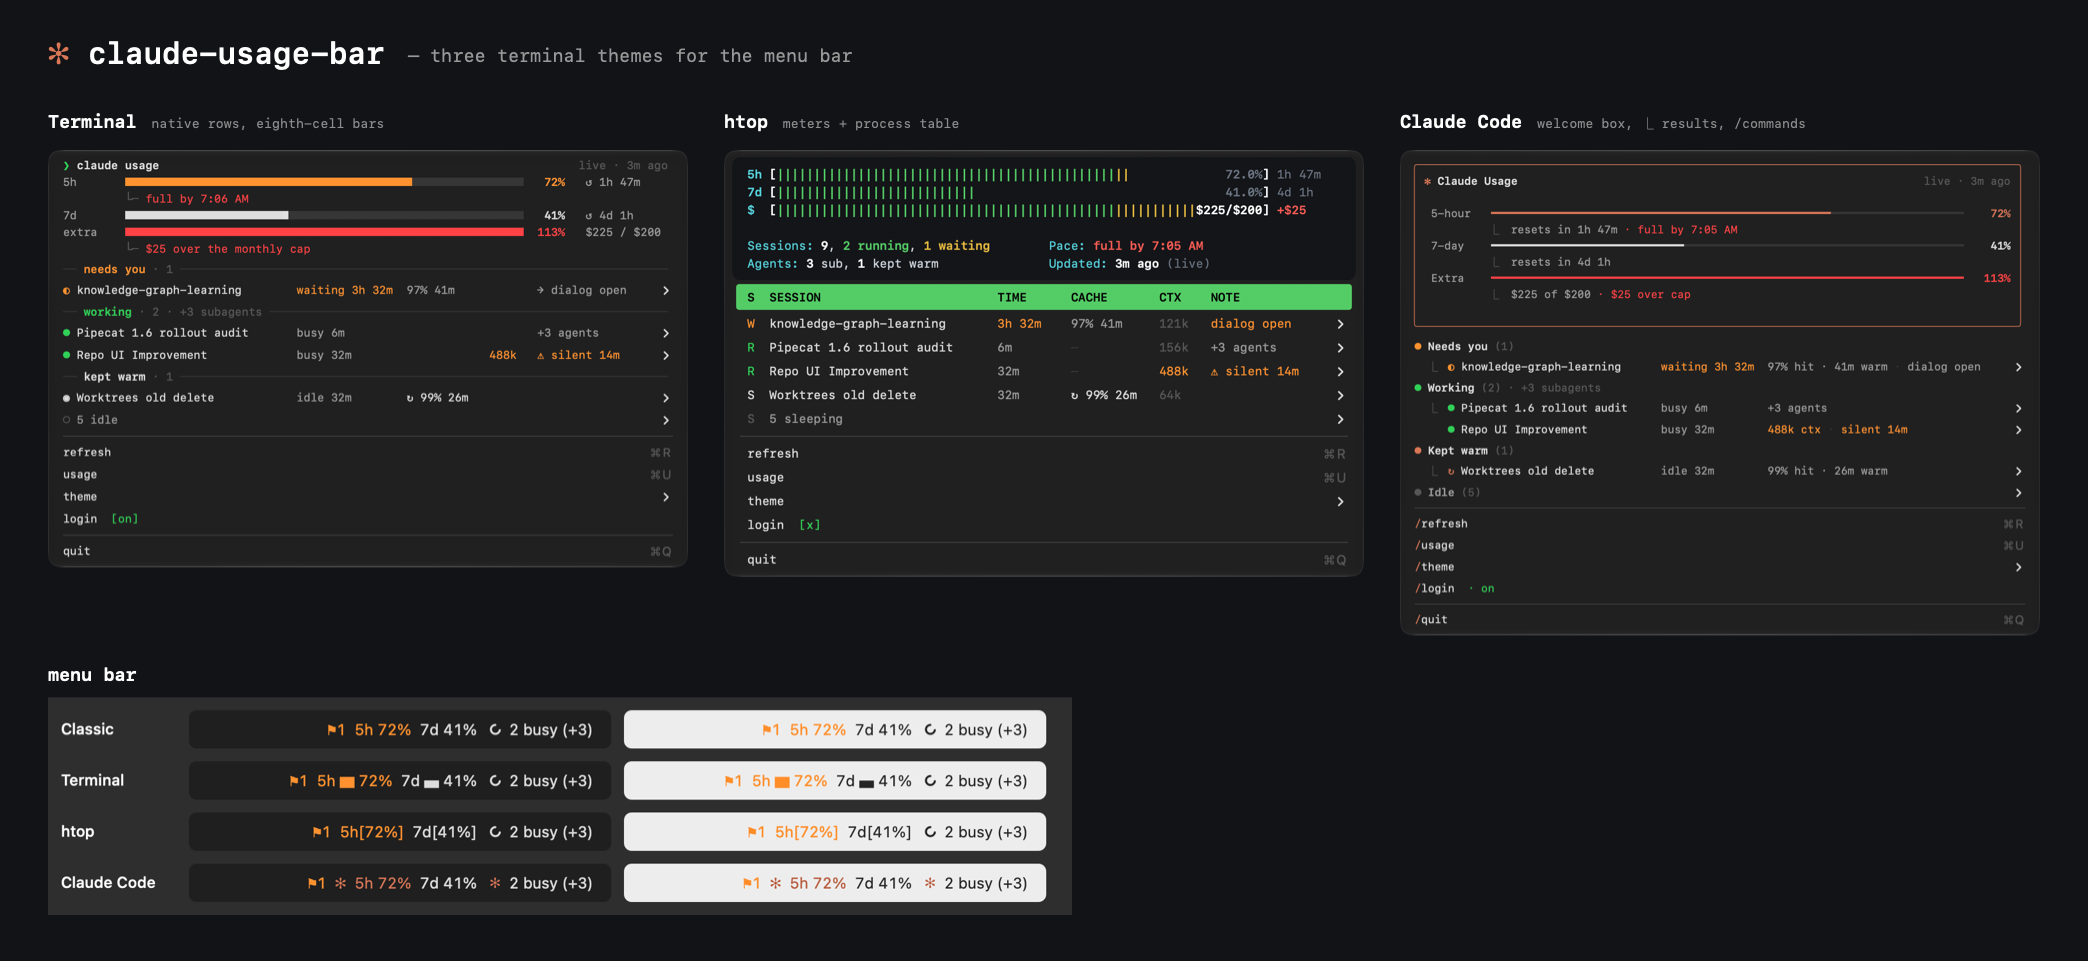
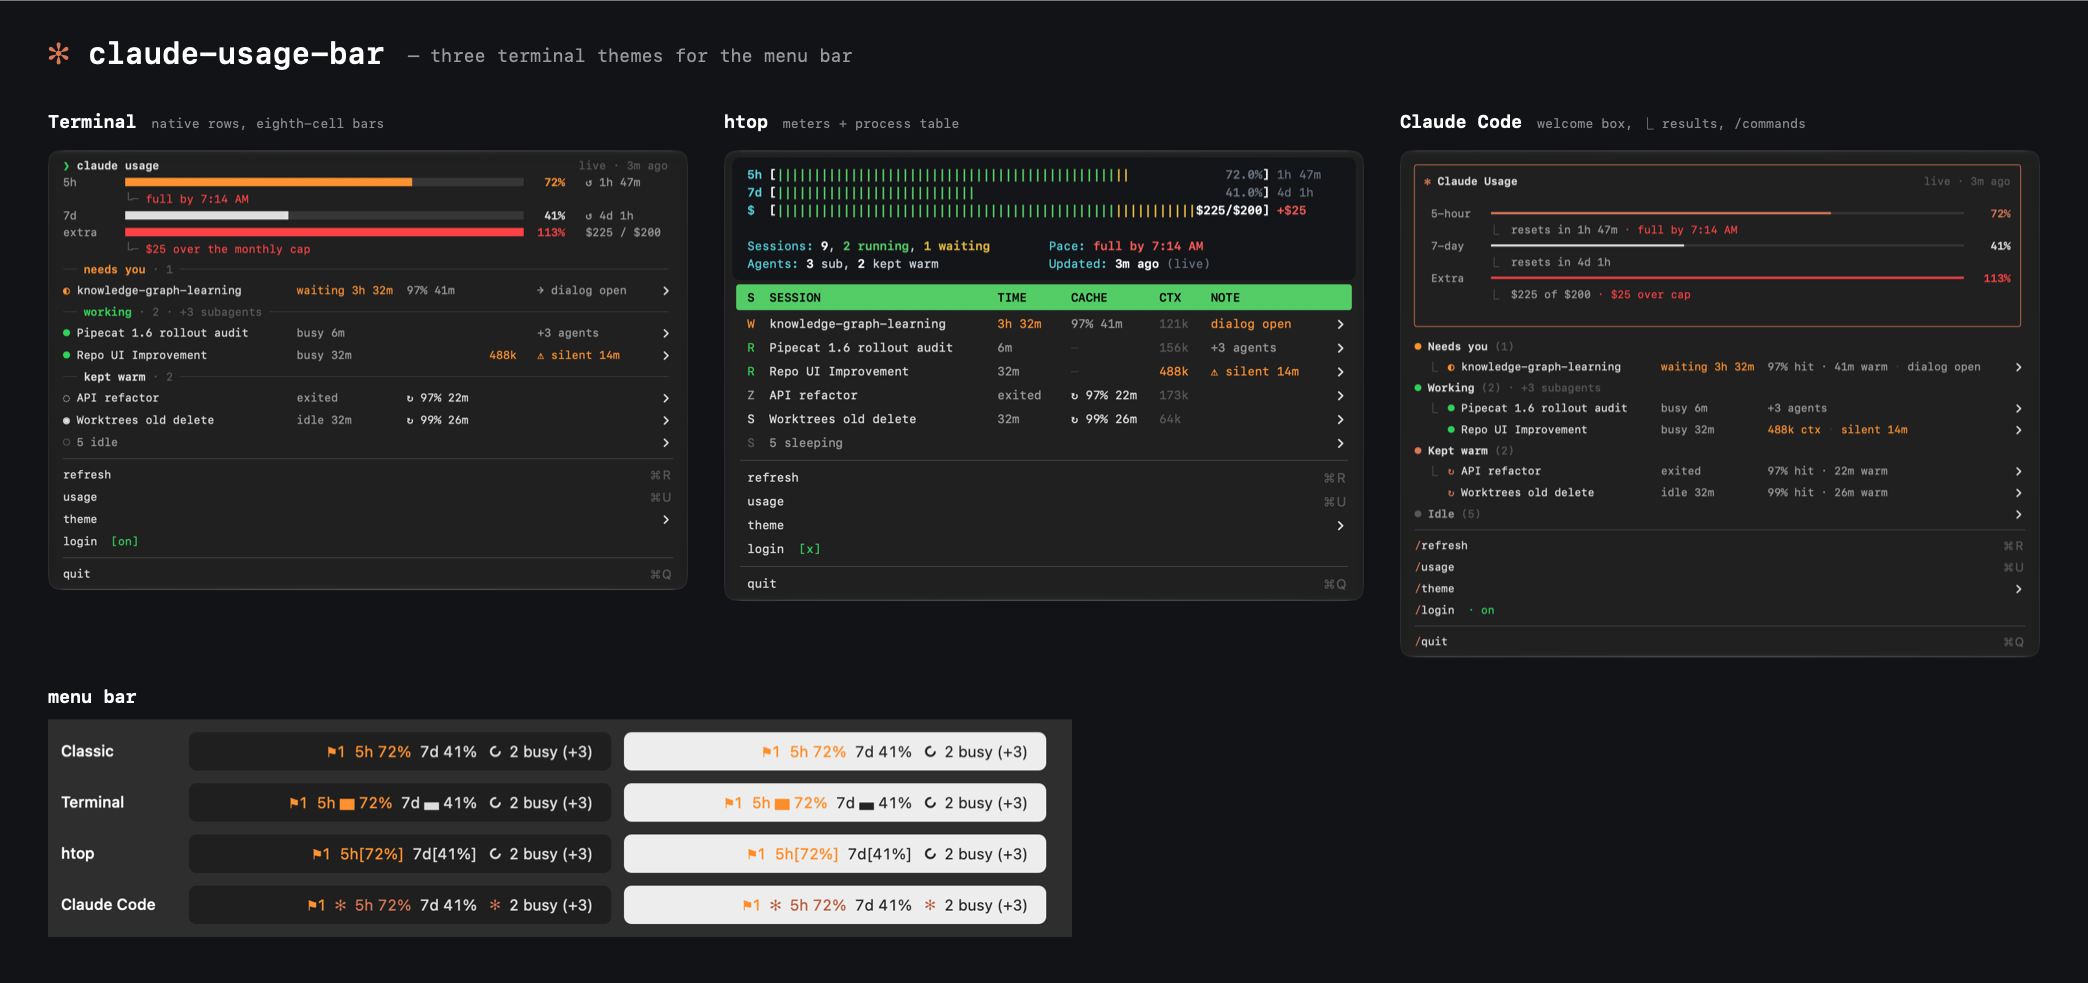
feat: show exited pinned sessions in the themes
Sessions Conductor has stopped now stay in the snapshot as "exited" while
their pin keeps the cache warm. htop marks them Z (gone, not yet reaped) and
counts only live processes under Sessions; Terminal gives them a dotted ◌.
The demo gains one, and the screenshots are regenerated.

Refs #8

diff --git a/Sources/Demo.swift b/Sources/Demo.swift
@@ -20,9 +20,14 @@ enum Demo {
     }
 
     static let warmId = "demo-warm"
+    static let exitedId = "demo-exited"
 
     static func pins(now: Date) -> [String: Pin] {
-        [warmId: Pin(sessionId: warmId, pinnedAt: now.addingTimeInterval(-2 * 3600), lastPingAt: nil)]
+        [
+            warmId: Pin(sessionId: warmId, pinnedAt: now.addingTimeInterval(-2 * 3600), lastPingAt: nil),
+            exitedId: Pin(sessionId: exitedId, pinnedAt: now.addingTimeInterval(-3 * 3600),
+                          lastPingAt: now.addingTimeInterval(-38 * 60)),
+        ]
     }
 
     static func agents(now: Date) -> AgentSnapshot {
@@ -44,12 +49,25 @@ enum Demo {
             a.subagents = subagents
             return a
         }
+        // Pinned, but Conductor has stopped its process: what SessionScanner
+        // builds from the pin, with no pid, start time or Conductor title.
+        func exited(_ label: String, id: String, context: Int, hit: Double, requestAgo: Double) -> AgentSession {
+            var a = AgentSession(pid: 0, name: label, cwd: "/tmp", status: "exited", sessionId: id,
+                                 statusSince: nil, waitingFor: nil)
+            a.label = label
+            a.contextTokens = context
+            a.cacheHit = hit
+            a.lastRequestAt = now.addingTimeInterval(-requestAgo * 60)
+            a.cacheTTL = 3600
+            return a
+        }
         return AgentSnapshot(sessions: [
             s("knowledge-graph-learning", "waiting", since: 212, waitingFor: "dialog open",
               context: 121_000, hit: 0.97, requestAgo: 18),
             s("Repo UI Improvement", "busy", since: 32, context: 488_000, writeAgo: 14),
             s("Pipecat 1.6 rollout audit", "busy", since: 6, context: 156_000, subagents: 3),
             s("Worktrees old delete", "idle", since: 32, id: warmId, context: 64_000, hit: 0.99, requestAgo: 33),
+            exited("API refactor", id: exitedId, context: 173_000, hit: 0.97, requestAgo: 95),
             s("Fix Exotel webhook retries", "idle", since: 48, context: 92_000, hit: 0.95, requestAgo: 48),
             s("Claude usage tracker Mac", "idle", since: 75, context: 230_000, hit: 0.98, requestAgo: 75),
             s("Lens trace explorer", "idle", since: 140, hit: 0.91, requestAgo: 140),

diff --git a/Sources/StyleHtop.swift b/Sources/StyleHtop.swift
@@ -57,7 +57,7 @@ struct HtopStyle: MenuStyle {
             let half = cols / 2 + 1
             let a = c.agents
             stat(&g, row: r, col: 1, "Sessions: ", [
-                ("\(a.sessions.count)", P.white, true), (", ", P.fg, false),
+                ("\(a.sessions.filter { $0.pid > 0 }.count)", P.white, true), (", ", P.fg, false),
                 ("\(a.busyCount) running", P.green, true),
                 (a.waiting.isEmpty ? "" : ", ", P.fg, false),
                 (a.waiting.isEmpty ? "" : "\(a.waiting.count) waiting", P.yellow, true),
@@ -152,13 +152,17 @@ struct HtopStyle: MenuStyle {
             switch a.status {
             case "busy": return ("R", .systemGreen)
             case "waiting": return ("W", .systemOrange)
+            // Conductor stopped the process but the pin keeps its cache warm:
+            // gone, not yet reaped, which is what htop's Z means.
+            case "exited": return ("Z", .secondaryLabelColor)
             default: return ("S", pin != nil ? .labelColor : .tertiaryLabelColor)
             }
         }()
         let base: NSColor = a.isBusy || a.isWaiting || pin != nil ? .labelColor : .secondaryLabelColor
         var parts: [(String, NSColor)] = [(" ", base), (pad(state, 3), tint)]
         parts.append((pad(truncate(a.label, 29), 31), base))
-        let since = a.statusSince.map { formatDuration(now.timeIntervalSince($0)) } ?? "—"
+        let since = a.statusSince.map { formatDuration(now.timeIntervalSince($0)) }
+            ?? (a.status == "exited" ? "exited" : "—")
         parts.append((pad(since, 10), a.isWaiting ? .systemOrange : .secondaryLabelColor))
         if let (text, color) = cacheCell(a, pin: pin, now: now) {
             parts.append((pad(text, 12), color))

diff --git a/Sources/StyleTerminal.swift b/Sources/StyleTerminal.swift
@@ -135,6 +135,7 @@ struct TerminalStyle: MenuStyle {
             switch a.status {
             case "busy": return ("●", .systemGreen)
             case "waiting": return ("◐", .systemOrange)
+            case "exited": return ("◌", .secondaryLabelColor)
             default: return (pin != nil ? "◉" : "○", pin != nil ? .labelColor : .tertiaryLabelColor)
             }
         }()
